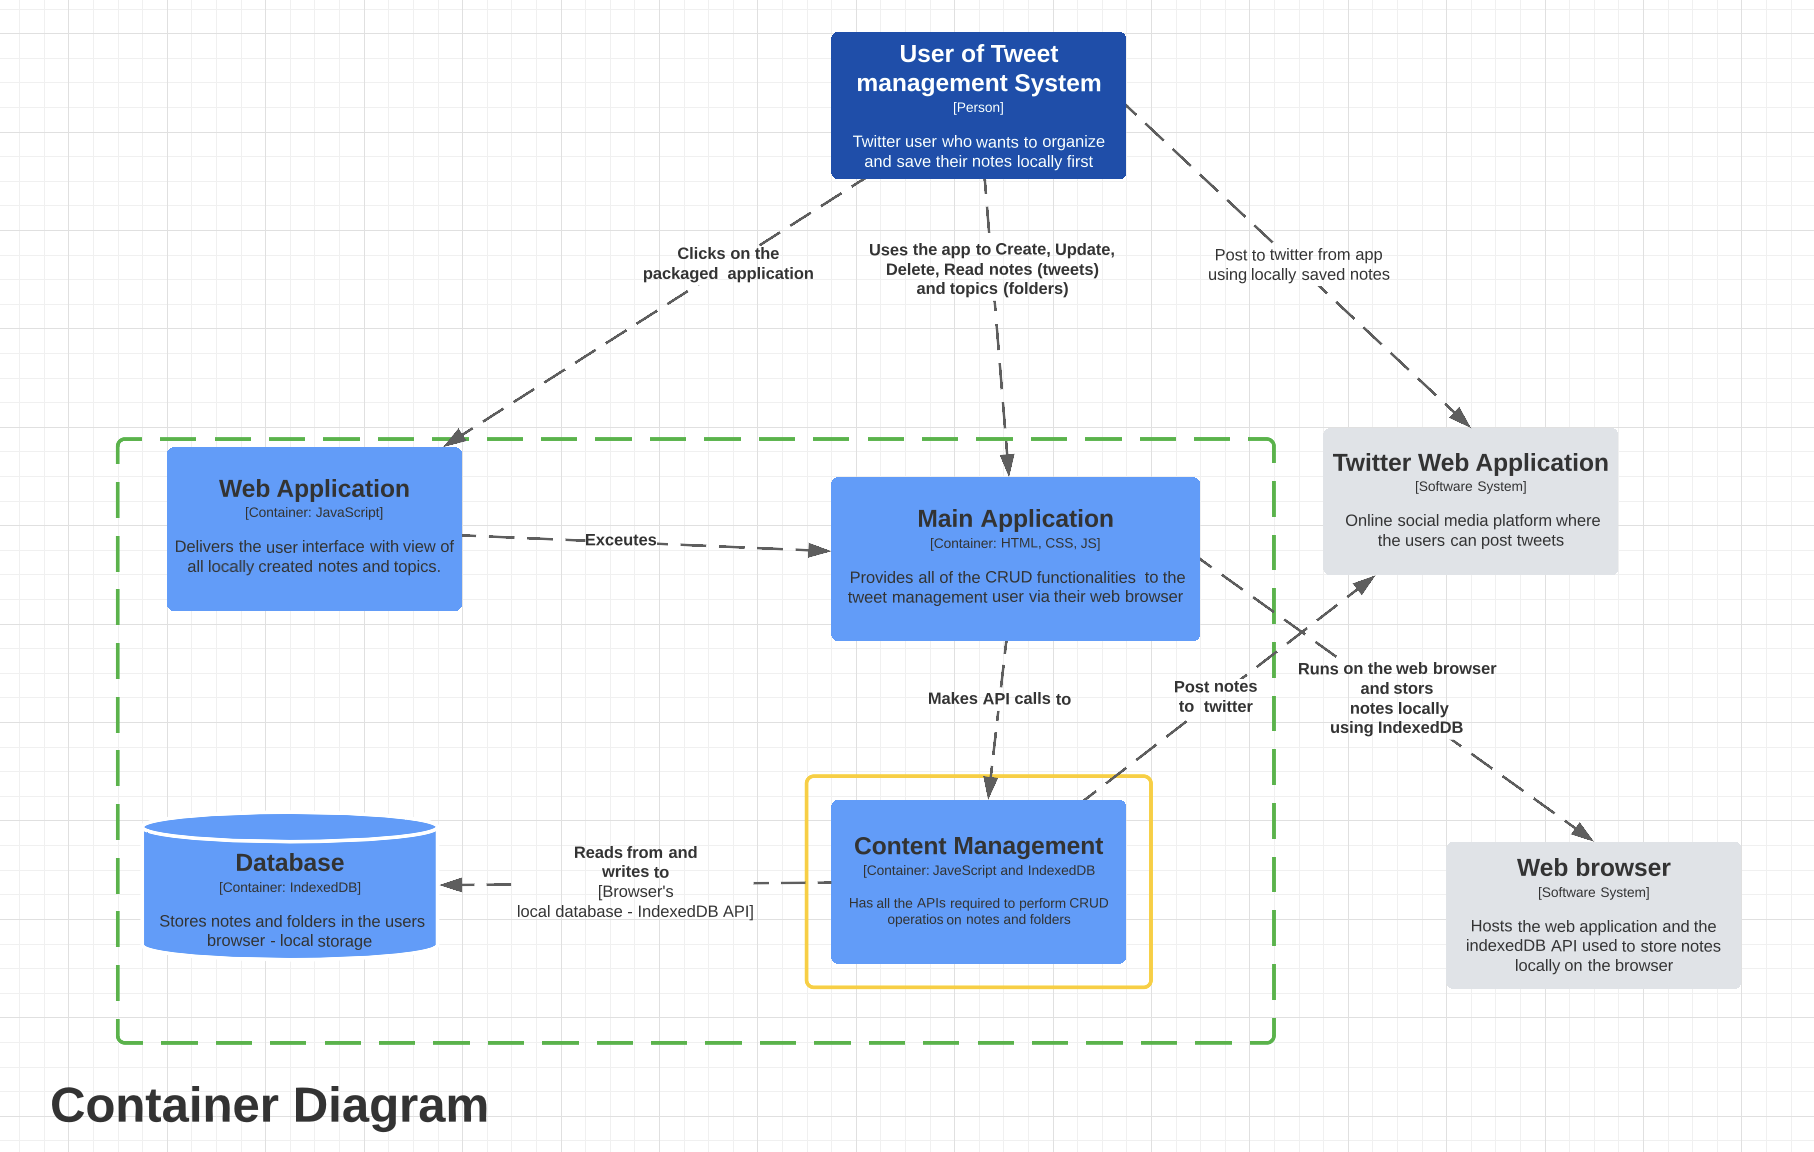
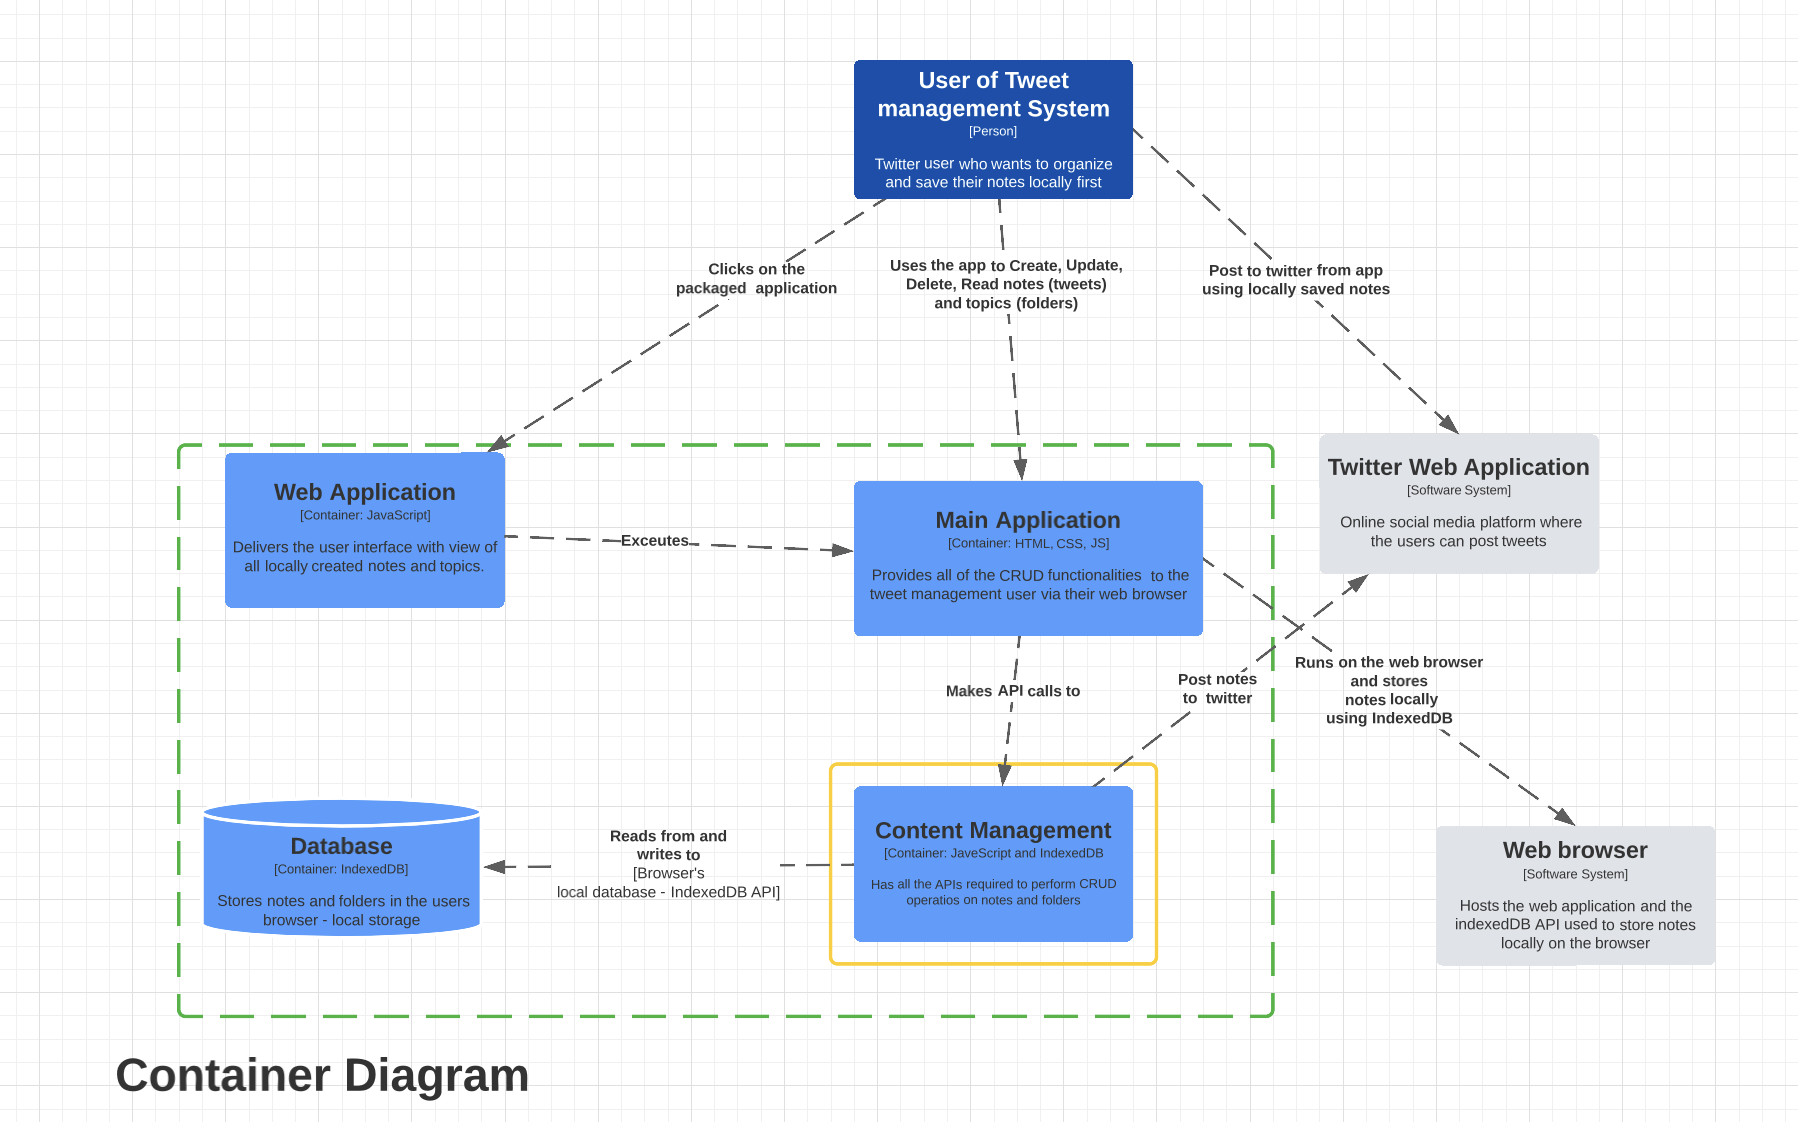
C4 Documentation and Changes

diff --git a/docs/c4_model/C4_Documentation.md b/docs/c4_model/C4_Documentation.md
@@ -1,0 +1,68 @@
+# Documentation for the C4 Diagram
+
+Our local-first 'Tweet Management System' is modeled using the C4 Architecture as follows:
+
+In the context of our project,
+1. Notes are synonymous with tweets.
+2. Folders are synonymous with topics. 
+
+## Level 1: System Context Diagram
+![alt text](https://github.com/nirmalthomas2609/cse210-fa22-ucsd-group5/blob/msharan/documentation/docs/c4_model/c4_lev1.png "System Context Diagram")
+
+1. The 'Tweet Management System' is a software that runs on the browser and stores notes locally, using the indexedDB API of the browser.
+2. Any web browser can host the 'Tweet Mangement' application, and use its indexedBD API to store notes locally on the browser.
+3. The user of the tweet management system is ideally someone who wants to organize, store, and manage their tweets locally first.
+4. They will use the 'Tweet Management' web application to organize and store their notes (tweets).
+5. [FUTURE SCOPE] The user will also be able to link their twitter account to the main application using the Twitter API, with which they would be able to post any locally saved note, in the web app, to Twitter.
+6. [FUTURE SCOPE] The 'Tweet Management' System should be able to post notes to twitter, as per the user's selection. 
+
+## Level 2: Container Diagram
+![alt text](https://github.com/nirmalthomas2609/cse210-fa22-ucsd-group5/blob/msharan/documentation/docs/c4_model/c4_lev2.png "Container Diagram")
+
+The Level - 2 Container diagram for the 'Tweet Management' application is axplained as follows:
+
+1. When the user clicks on the packaged application, it triggers a JS Container that fires up the user interface (HTM+CSS), with the view of all locally created (and automatically saved) notes and topics.
+2. The web browser then executes the main application, which is developed using HTML, CSS, and JS, to provide all the CRUD functionalities to the tweet management user. 
+3. The user uses the main application to Create, Update, Delete, and Read Notes (tweets) and topics (folders).
+4. The main application runs on the web browser and stores notes locally using indexedDB. 
+5. The main Application can make API calls to the 'Content-Management.js', a JaveScript container, which hosts all the API codebase required to perform CRUD operations on notes and folders. 
+6. The 'Content-Management' JS container can read-from and write-to the browser's local database, which is the indexedDB API.
+7. IndexedDB is the database used by the application to achieve its purpose of client-side local storage. It can persistently store the notes and folders inside the client's browser.
+8. [FUTURE SCOPE] The 'Content-Management' container will also have the API to connect to the user's twitter account, and the API used for posting notes to twitter. 
+
+
+## Level 3: Component Diagram
+![alt text](https://github.com/nirmalthomas2609/cse210-fa22-ucsd-group5/blob/msharan/documentation/docs/c4_model/c4_lev3.png "Component Diagram")
+
+The interactions and the dependencies among the API components in the 'Content-Management' JS container is as follows:
+
+| API           | Functionality         |
+|-------------- |: --------------------- :|
+| _createTweet_ | Allows users to create new tweets (notes) |
+| _updateTweet_ | Allows the user to update tweets, which are dynamically saved in the browser's indexedDB database |
+| _deleteTweet_ | Allows users to delete tweets from local storage |
+| _createTopic_ | Allows users to create new topics (folders) to organise their tweets |
+| _updateTopic_ | Allows users to update topic names and their content (tweets stored) at any time |
+| _deletetopic_ | Allows users to delete topics, thereby deleting all notes within that topic folder |
+| _getTweetByTopicID_ | Gets the note corresponding to the folder in which the note is present |
+| _viewAllTopics_ | Fetches all the created topics from the topic store for the user to view |
+| _getTweetByID_ | Gets the tweet corresponding to a particular ID. 
+
+The dependencies are as follows:
+
+1. _updateTweet_, and _deleteTweet_ can be implemented on a tweet only after _createTweet_ has been implemented for that tweet. Hence _updateTweet_, _deleteTweet_ uses _createTweet_. 
+2. _updateTopic_, and _deleteTopic_ can be implemented on a topic only after _createTopic_ has been implemented for that topic. Hence _updateTopic_, _deleteTopic_ uses _createTopic_. 
+3. Only if the tweets are created, we can fetch the tweet using the 'tweet ID' (which is assigned during _createTweet_ API). Hence _getTweetsByID_ uses _createTweet_.
+4. When the user clicks on the application, the _viewAllTopics_ API is fired as it is used to fetch all the previosuly created topics and tweets, and render them on the browser (which hosts the main application) for the user. 
+5. Only created topics can be fetched by the _viewAllTopics_ API, and hence it uses _createTopic_.
+6. Only if the tweets are created, we can fetch the tweet using the 'tweet ID' (which is assigned during _createTweet_ API). Hence _getTweetsByID_ uses _createTweet_.
+7. _getTweetsByTopicID_ uses _createTweets_ to create that tweet, and assign an ID to it. It also uses _createTopic_ so that it can fetch the topic corresponding to the tweet, from the topic ID (which is assigned during createTopic)
+8. When the application is executed, all the previously stored notes and folders are rendered for the user to view (or read). 
+
+## Level 4: Code Map
+![alt text](https://github.com/nirmalthomas2609/cse210-fa22-ucsd-group5/blob/msharan/documentation/docs/c4_model/c4_lev4.svg "Level - 4 Code Map")
+
+1. The index.html, in the front-end side, calls the enlisted JavaScript components (in the above diagram) for launching and running the 'Tweet Management' application.
+2. The unit tests for the backend APIs in the content-management.js is contained in db.test.js. The unit tests in db.test.js run in an in-memory implementation of fake-indexedDB. 
+
+###### CREDIT - Diagrams drawn on Lucidchart.com
